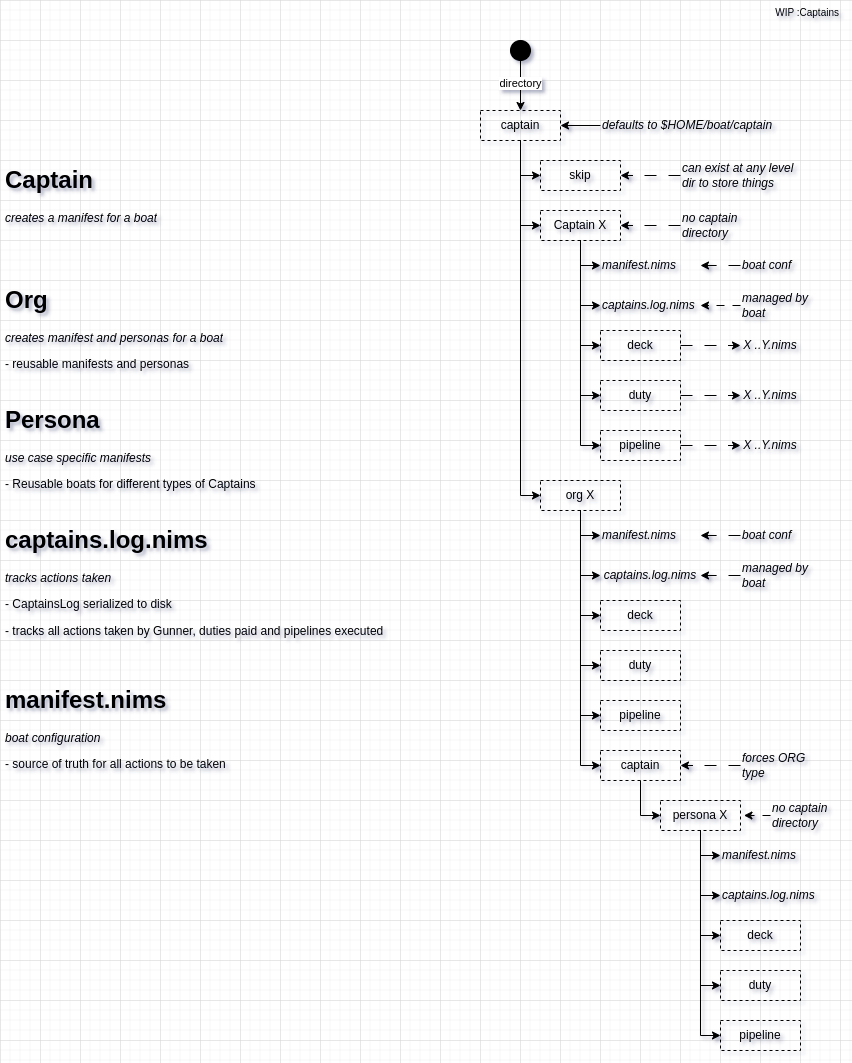
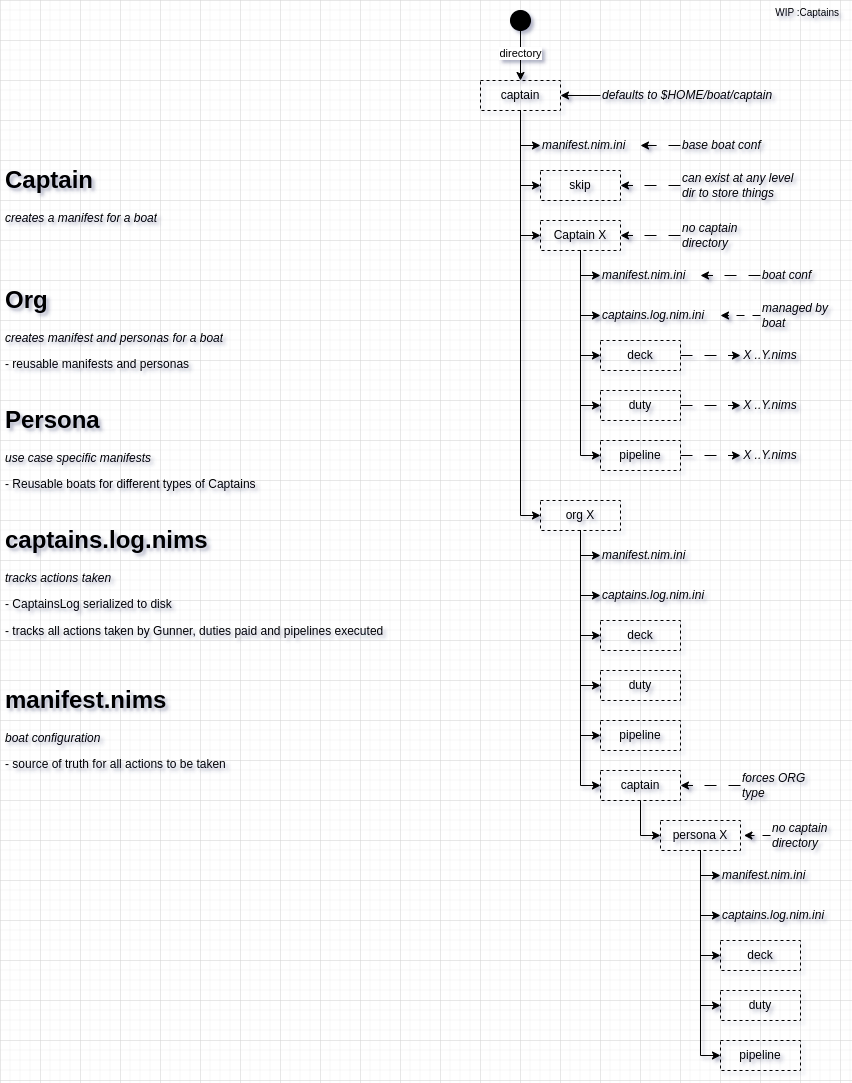
manifest scoping

diff --git a/src/boat/private/captain/readme.rst b/src/boat/private/captain/readme.rst
@@ -1,0 +1,4 @@
+captain dir
+===========
+- default boat conf
+- you can copypasta to $HOME/boat/captain and modify
